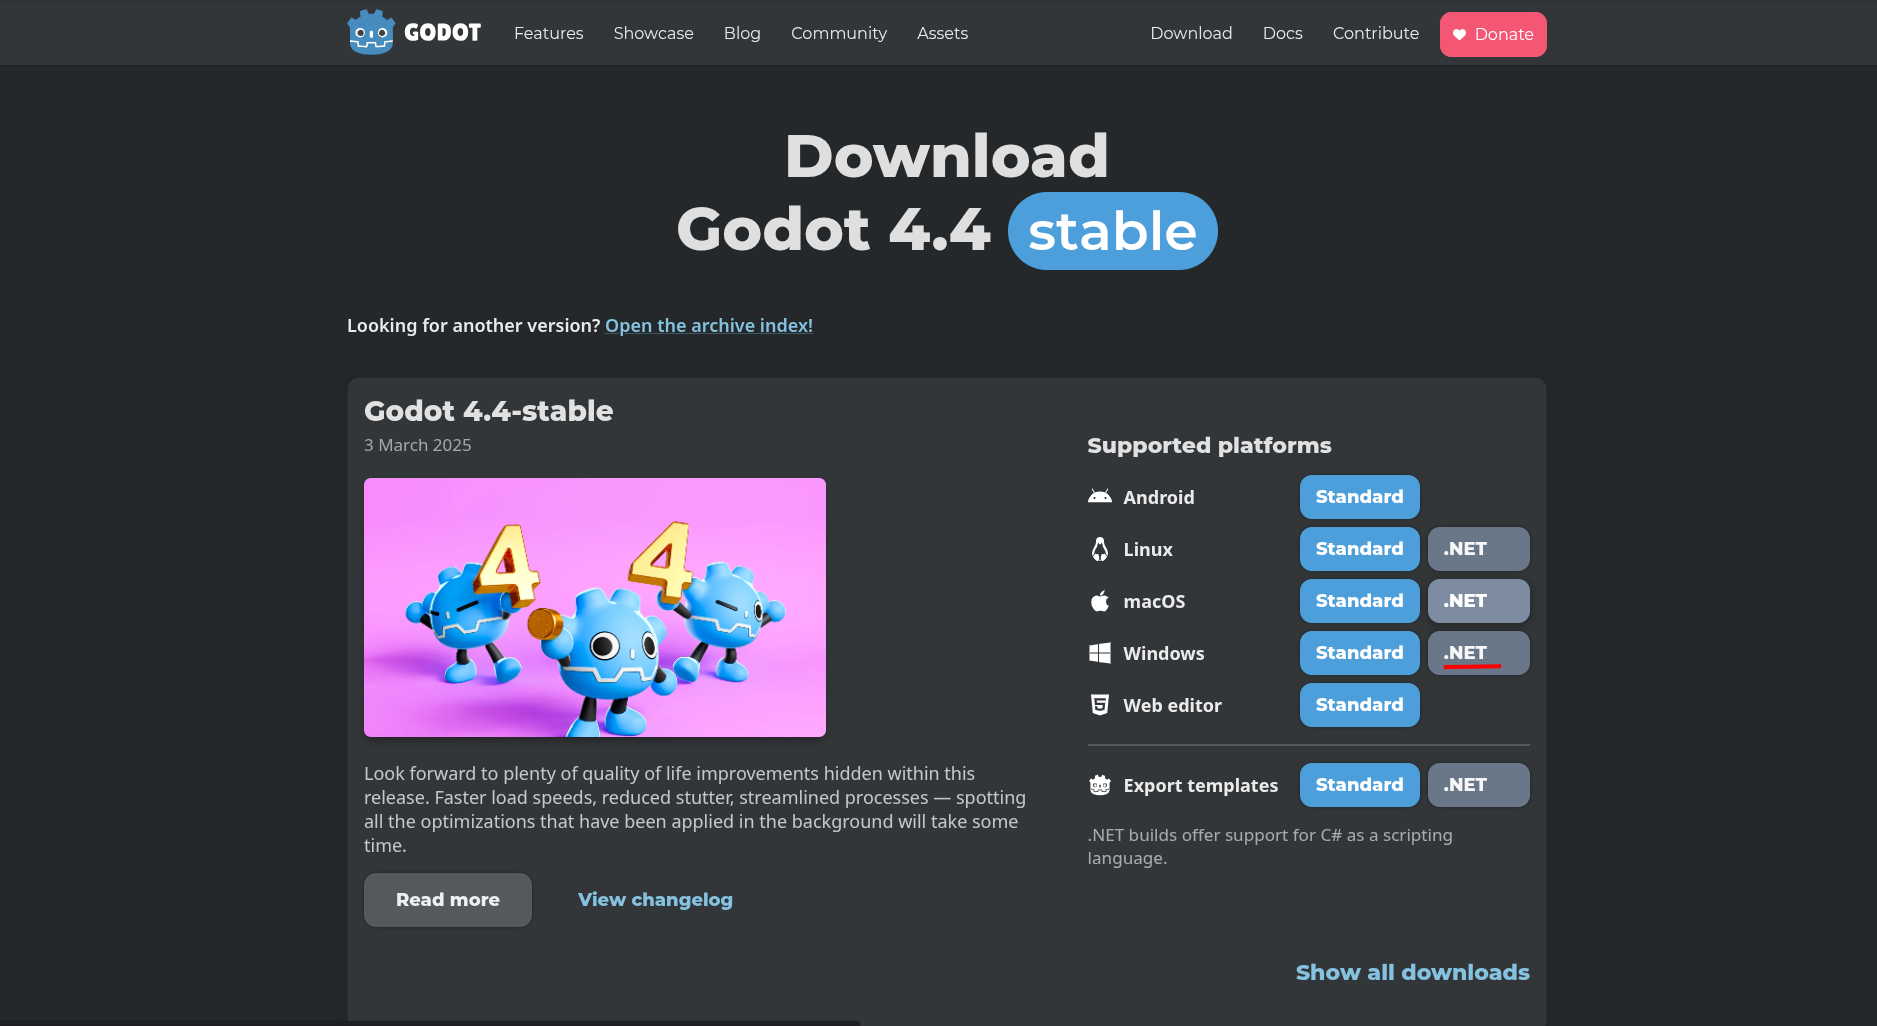
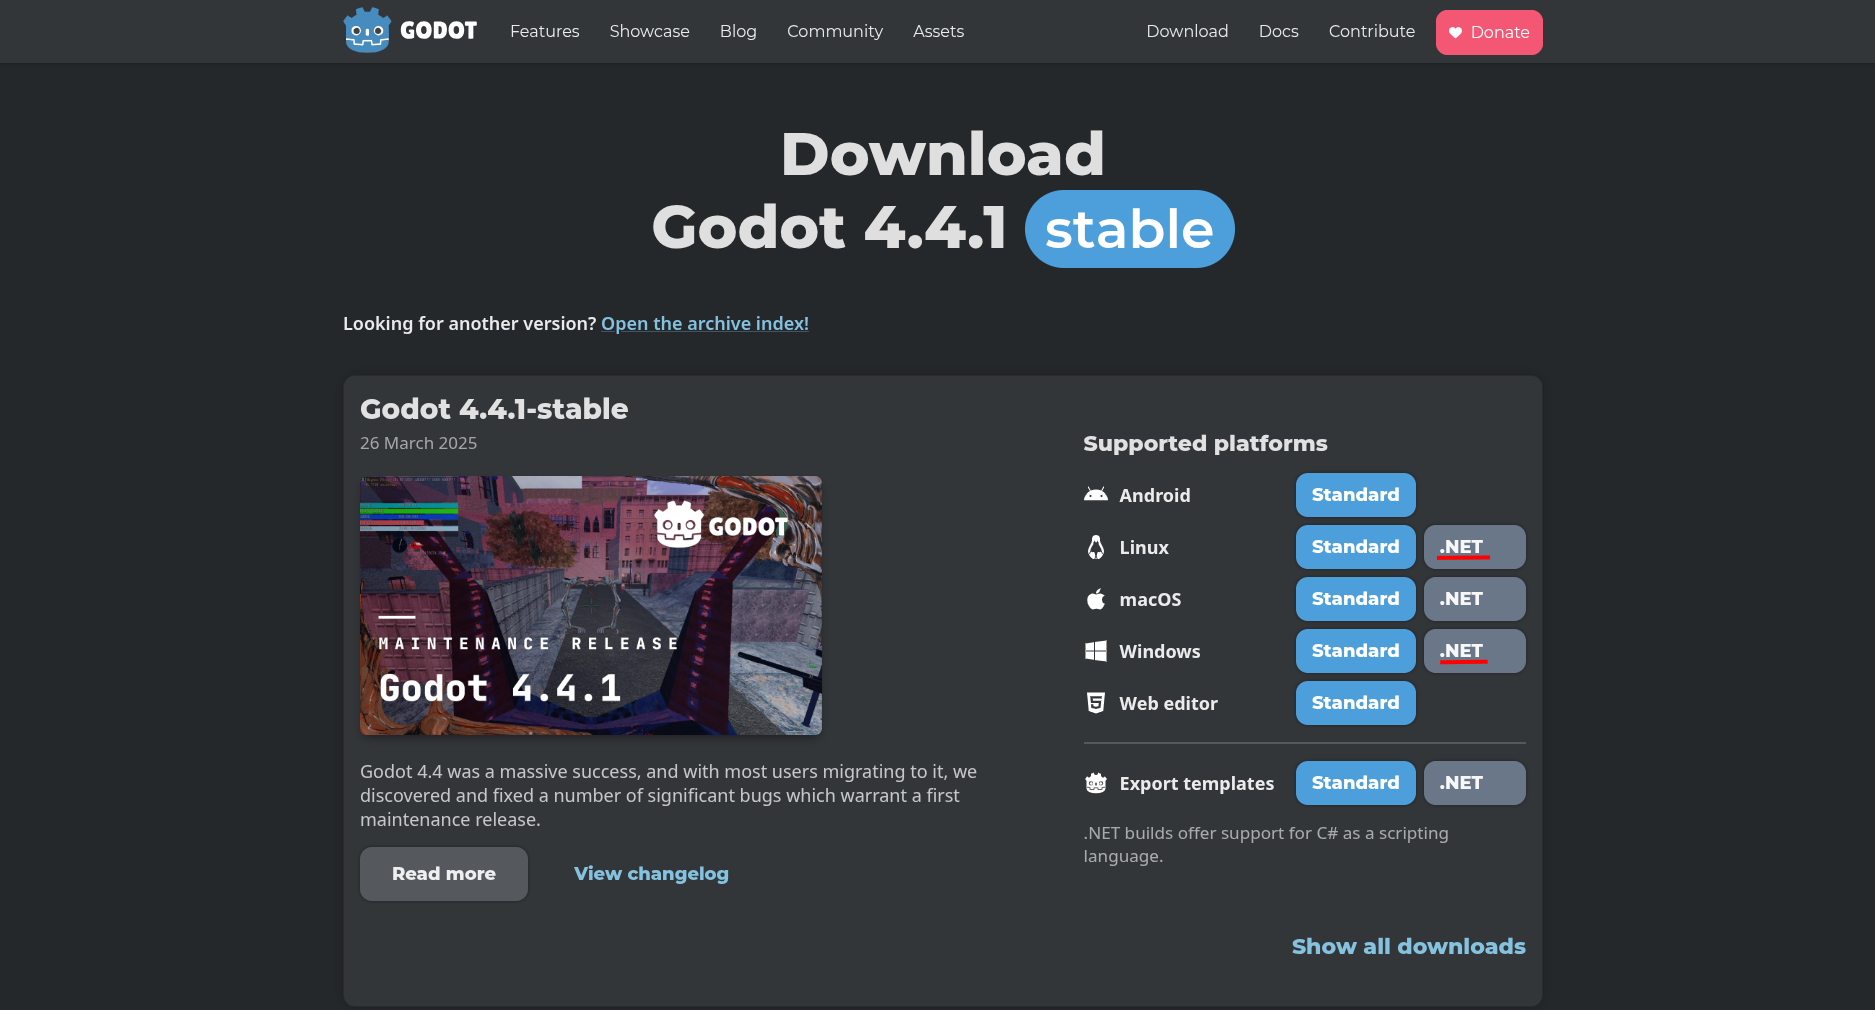
docs:add godot linux installation guide

diff --git a/docs/game-dev/getting-started.md b/docs/game-dev/getting-started.md
@@ -13,7 +13,7 @@ Prepare o ambiente de desenvolvimento com Godot. Mas antes de começar, veja os 
 
 ---
 
-## Instalando o Godot (Windows)
+## Instalando o Godot
 
 A versão do Godot que será utilizada no projeto será `Godot v4.4.1` com suporte a `C#`. Acesse a página de download do Godot para baixar o `.zip` da Engine.
 
@@ -28,15 +28,23 @@ Procure pela versão `4.4.1-stable` e baixe o instalador.
 
 ![godot-download-page](../images/godot-download-page.png)
 
-Depois, clique no botão `.NET`, para baixar a versão com suporte a C#.
+Depois, clique no botão `.NET`, para baixar a versão com suporte a C# de acordo com o seu sistema operacional.
 
 ![download-godot](../images/godot-download.png)
+
+### Windows
 
 Ao terminar o download do `.zip`, você deve criar a pasta `C:/Godot`, e em seguida extrair os arquivos do `.zip` para dentro dela. E pronto, o Godot está instalado!
 
 > [!NOTE]
 > Você pode notar que tem dois executáveis, `Godot_v4.4-stable_mono_win64.exe` e `Godot_v4.4-stable_mono_win64_console.exe`. Você deve utilizar o `Godot_v4.4-stable_mono_win64.exe` para abrir a Engine.
 
-## Instalando o Godot (Linux)
+### Linux
 
-#TODO
+Ao terminar o download do `.zip`, você deve extrair a os arquivos de dentro dele para a pasta `/opt`. Uma boa prática pode ser renomear a pasta extraída para `godot-bin`. Você pode adicionar o binário na pasta de PATH do seu user. Para isso execute:
+
+```bash
+sudo ln -s /opt/caminho/para/o/binário /usr/local/bin/godot
+```
+
+Agora reinicie seu terminal, e pronto! Você pode abrir o Godot digitando o comando `godot` no terminal.
